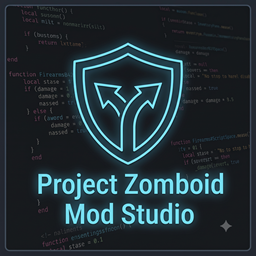
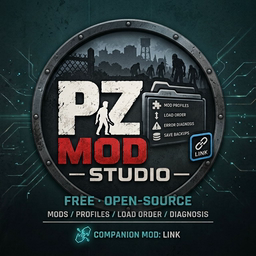
Workshop art from the new key art: preview, hero, cover, teal palette

diff --git a/workshop/Z_StudioLink/SHOTS.md b/workshop/Z_StudioLink/SHOTS.md
@@ -5,7 +5,9 @@ The description ([workshop.txt](workshop.txt)) shows only the banners in `banner
 link, so those never load). The screens go in the carousel at the top of the page: the files in
 `slides/`, added by hand in "Add/edit images & videos" on the item's page, in their numbered
 order. `node scripts/make-workshop-art.cjs` draws both (`banners` or `slides` for one of them):
-the slides take the app's screens from `docs/forum/images`, the game's crops from `media/` and
+`art/key-art.jpg` is the project's key art: the hero banner, the cover slide, the 256x256
+`preview.png` (a square of its full height, so no text is cut) and the round badge on the slides
+(`art/badge.png`) come from it, and the banners use its teal and red. The slides take the app's screens from `docs/forum/images`, the game's crops from `media/` and
 the animated ones from `recordings/`.
 
 The screens in `media/` are each one of the game or the app (Link 1.13.1, B42.21), no zoom, cut to the part that
